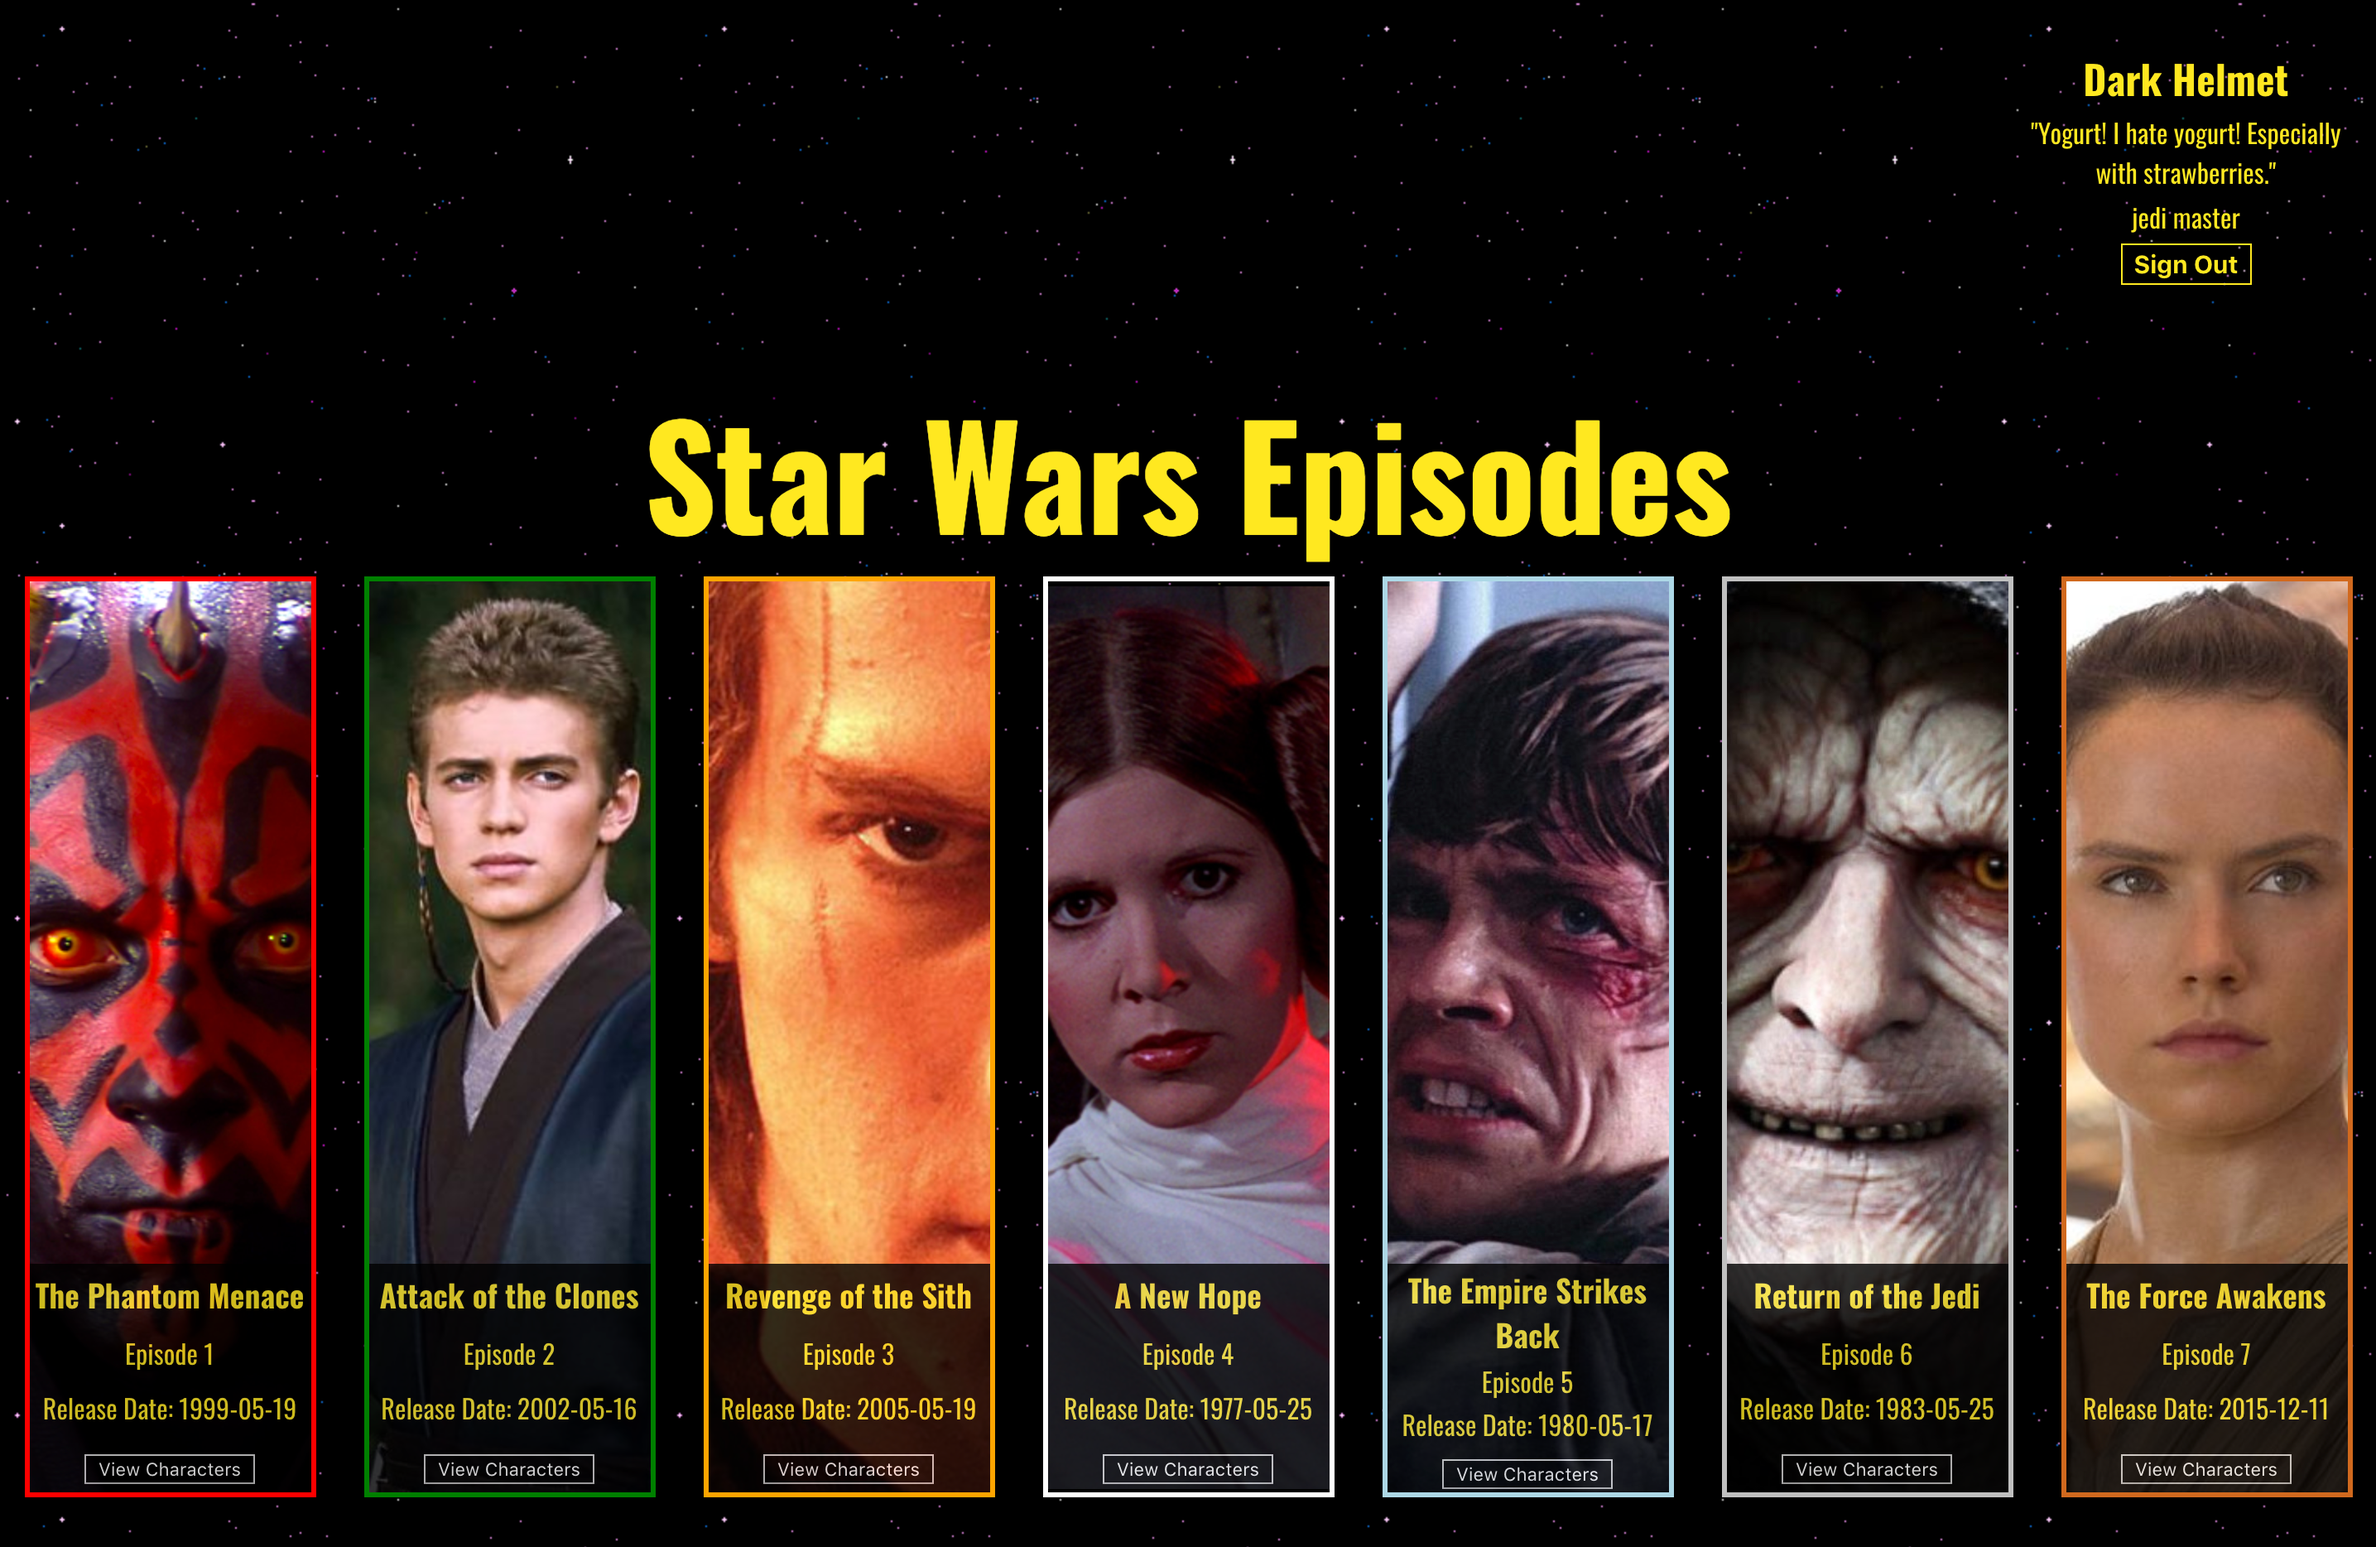
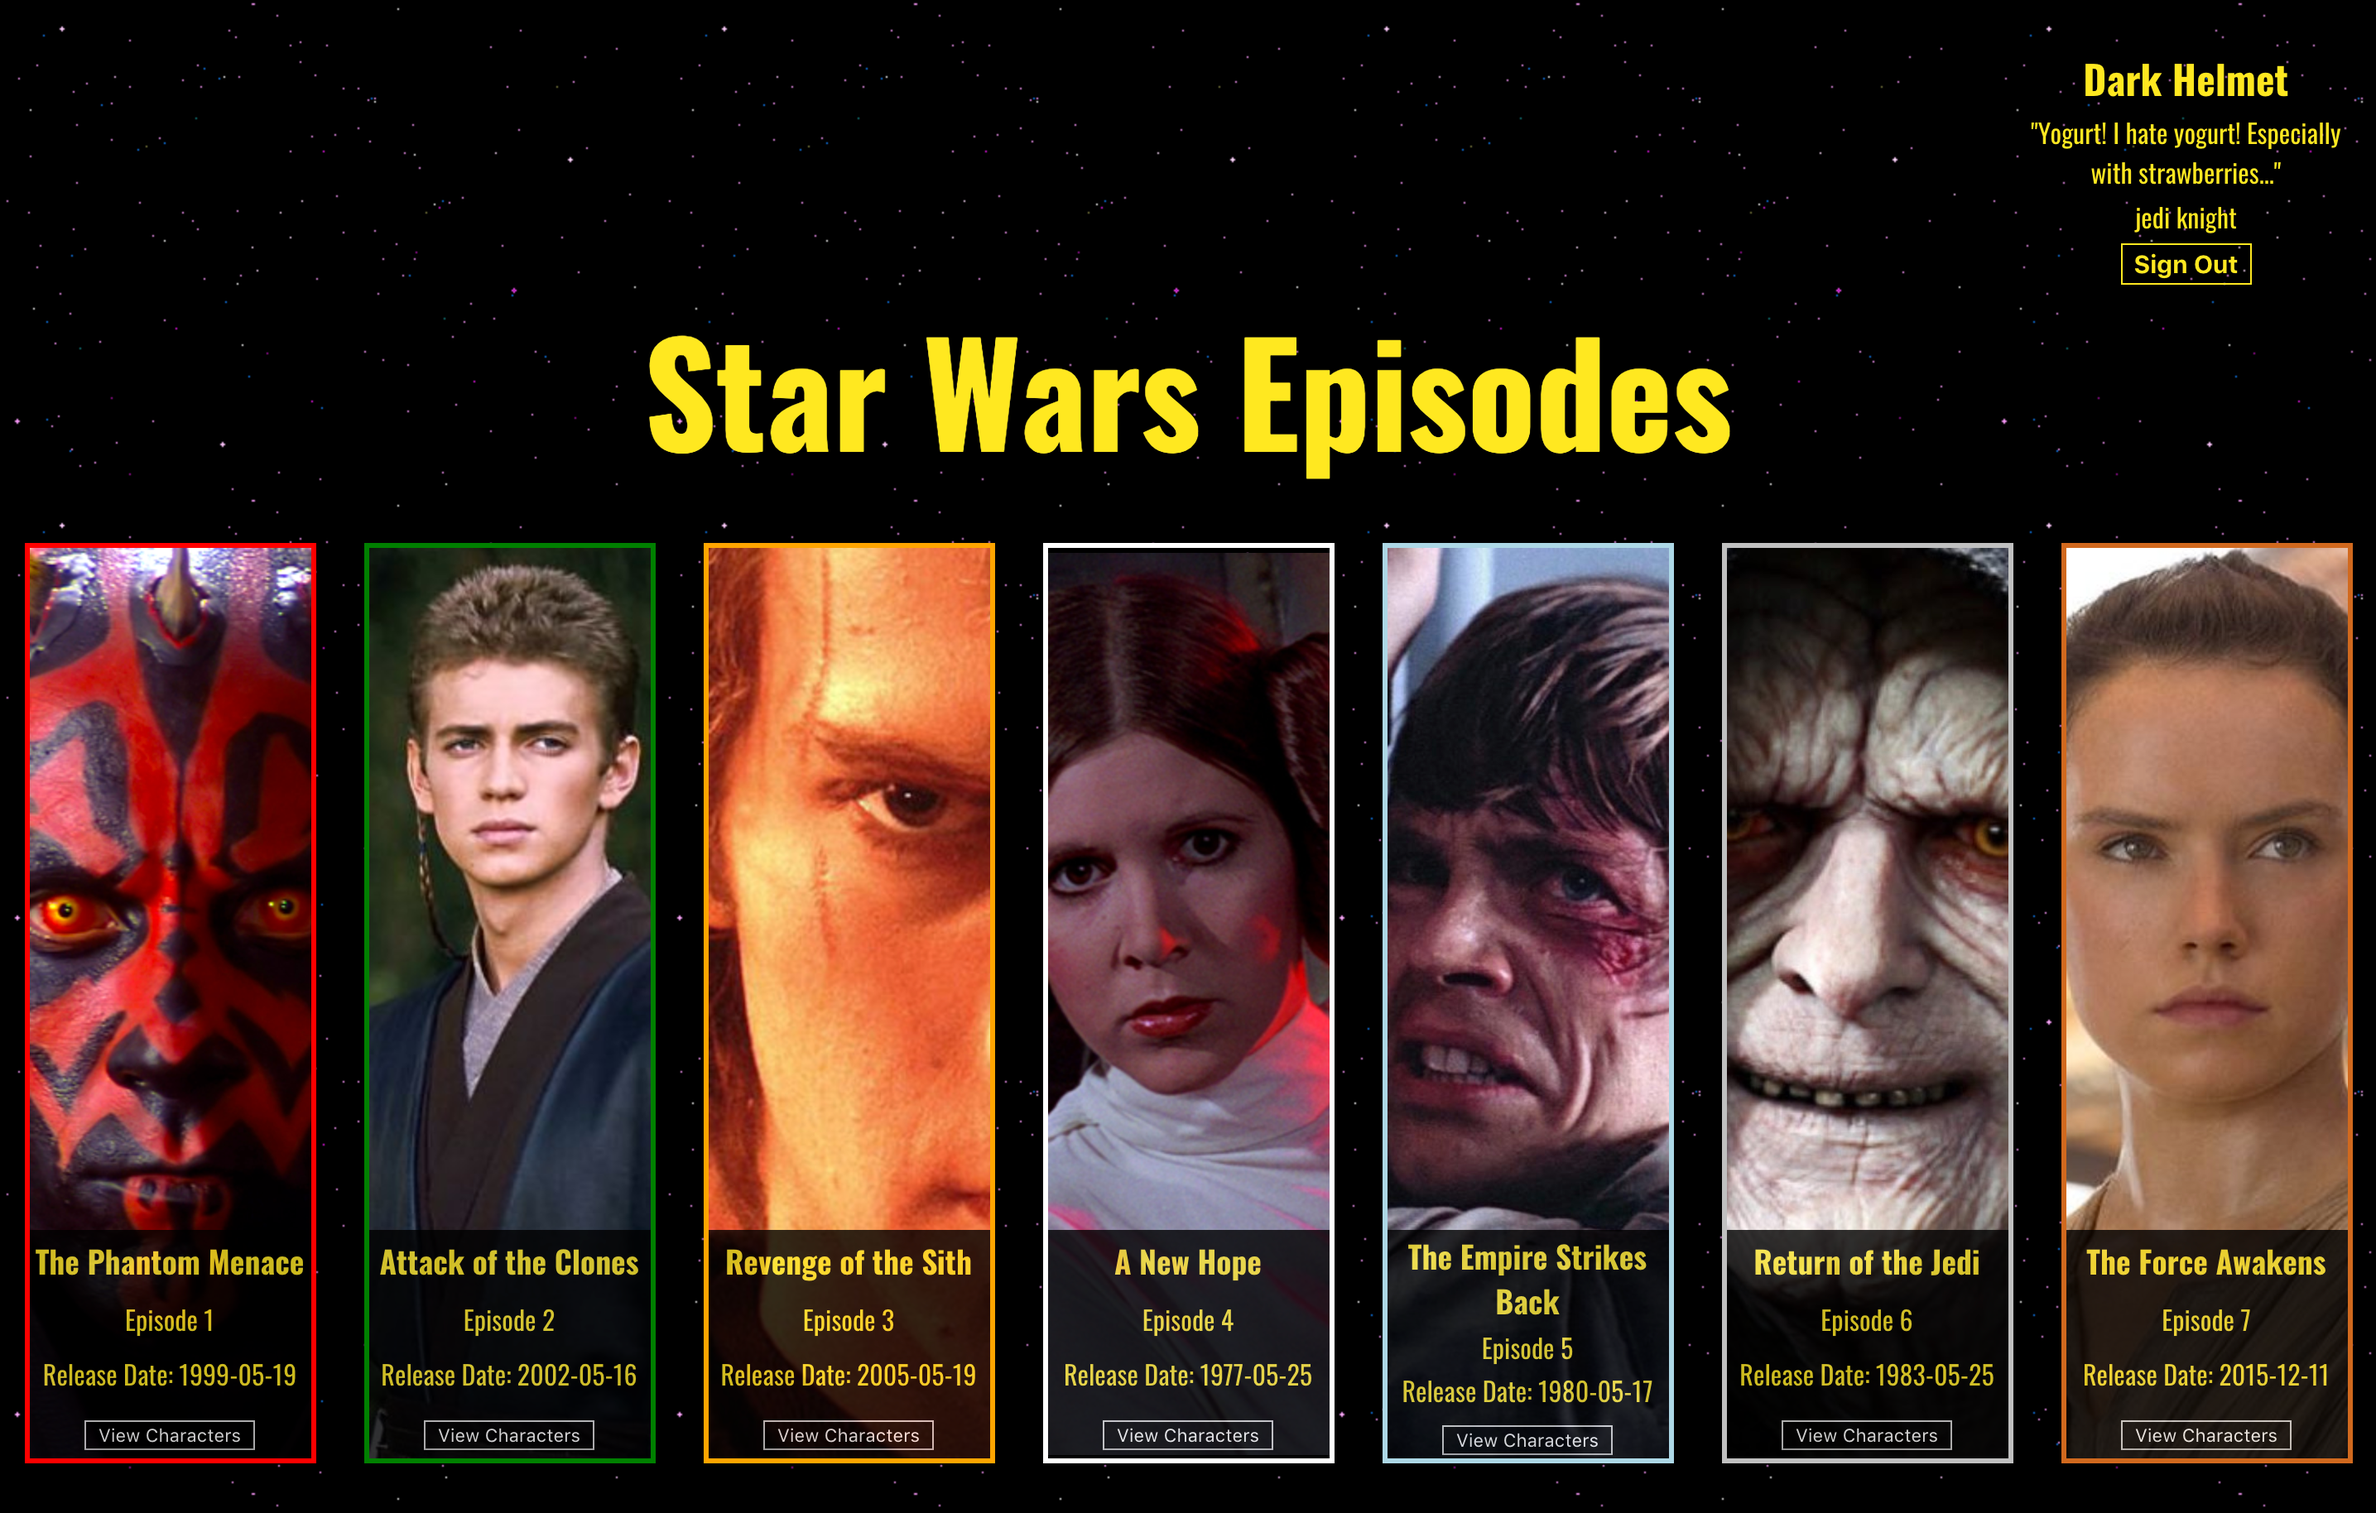
Update movie page screenshot

diff --git a/src/components/MovieContainer/MovieContainer.scss b/src/components/MovieContainer/MovieContainer.scss
@@ -8,7 +8,7 @@ $star-wars-yellow: #FFE81F;
 .movie-container-heading {
   color: $star-wars-yellow;
   font-size: 85px;
-  padding: 50px 50px 0 50px;
+  padding: 0px 50px 30px 50px;
 }
 
 .movie-container-content {
